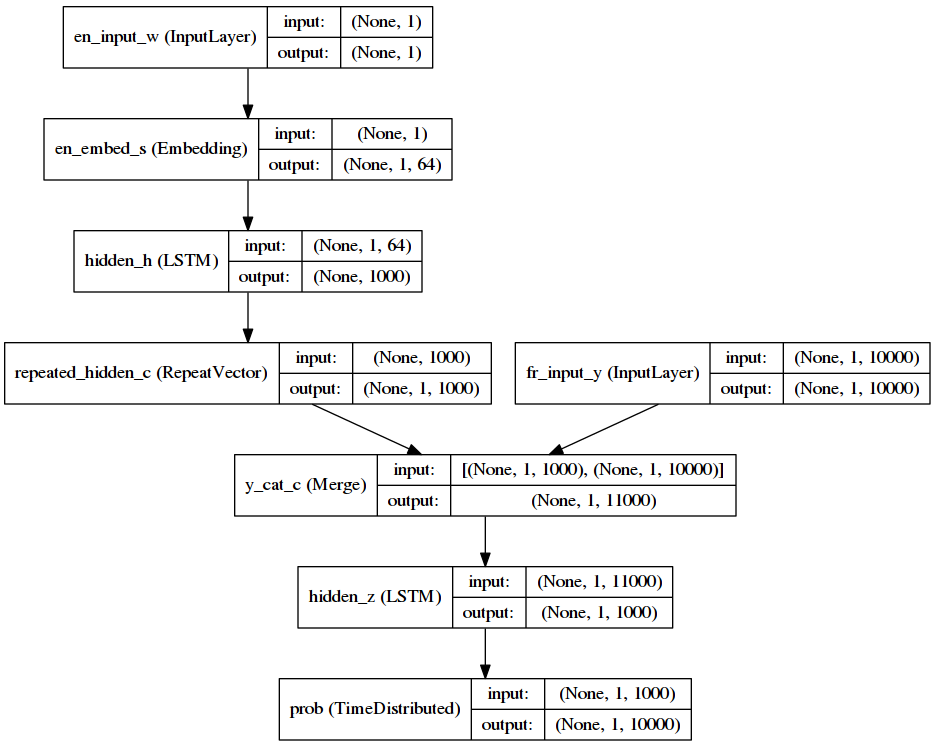
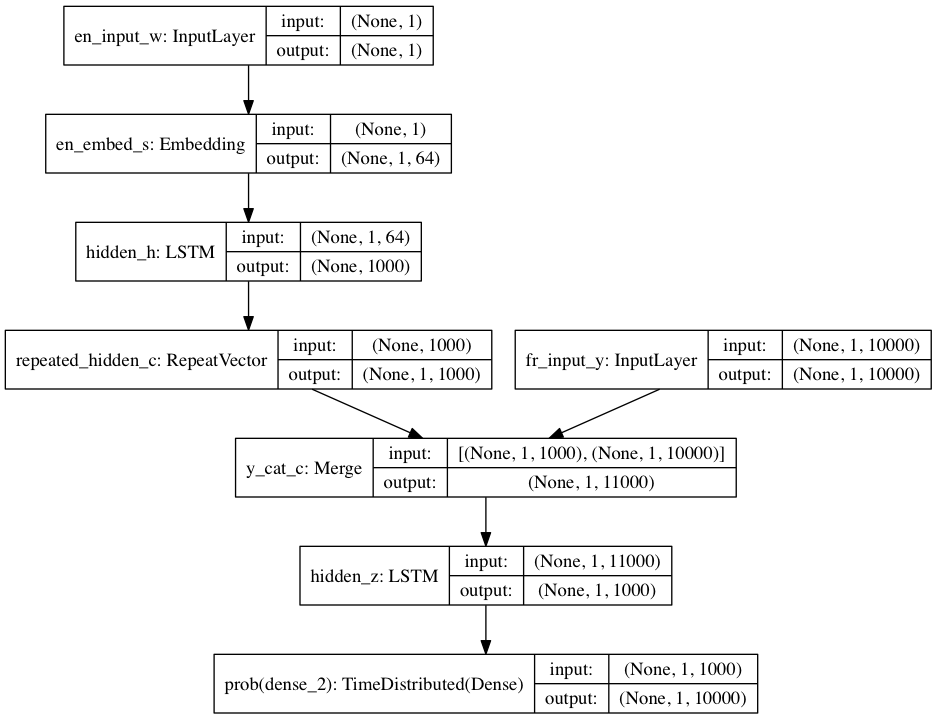
made tranlate a bit more general. turned off plot printing unless name give. better for my server

diff --git a/seq2seq_keras/translate.py b/seq2seq_keras/translate.py
@@ -51,7 +51,6 @@ from keras.layers.embeddings import Embedding
 from keras.layers.recurrent import LSTM
 from tensorflow import one_hot
 from keras.preprocessing.sequence import pad_sequences
-from keras.utils.visualize_util import plot
 from keras.models import Model
 from keras import backend as K
 
@@ -60,14 +59,14 @@ tf.app.flags.DEFINE_float("learning_rate_decay_factor", 0.99,
                                                     "Learning rate decays by this much.")
 tf.app.flags.DEFINE_float("max_gradient_norm", 5.0,
                                                     "Clip gradients to this norm.")
-tf.app.flags.DEFINE_integer("batch_size", 64,
+tf.app.flags.DEFINE_integer("batch_size", 32,
                                                         "Batch size to use during training.")
 tf.app.flags.DEFINE_integer("size", 1024, "Size of each model layer.")
 tf.app.flags.DEFINE_integer("num_layers", 3, "Number of layers in the model.")
 tf.app.flags.DEFINE_integer("en_vocab_size", 10000, "English vocabulary size.")
 tf.app.flags.DEFINE_integer("fr_vocab_size", 10000, "French vocabulary size.")
-tf.app.flags.DEFINE_string("data_dir", "/tmp", "Data directory")
-tf.app.flags.DEFINE_string("train_dir", "/tmp", "Training directory.")
+tf.app.flags.DEFINE_string("data_dir", "wmt", "Data directory")
+tf.app.flags.DEFINE_string("train_dir", "wmt", "Training directory.")
 tf.app.flags.DEFINE_integer("max_train_data_size", 0,
                                                         "Limit on the size of training data (0: no limit).")
 tf.app.flags.DEFINE_integer("steps_per_checkpoint", 200,
@@ -80,6 +79,7 @@ tf.app.flags.DEFINE_boolean("use_fp16", False,
                                                         "Train using fp16 instead of fp32.")
 tf.app.flags.DEFINE_boolean("quick_and_dirty", False,
                                                         "Quick & Dirty settings for fast testing")
+tf.app.flags.DEFINE_string("plot_name", None, "base name for plots")
 
 FLAGS = tf.app.flags.FLAGS
 
@@ -119,8 +119,9 @@ def create_model(vocab_size, en_length, fr_length, hidden_dim):
     z = LSTM(hidden_dim, return_sequences=True, name='hidden_z')(decode_input)
     p = TimeDistributed(Dense(vocab_size, activation='softmax'), name='prob')(z)
     model = Model(input=[en, fr], output=p)
-    print("printing model to an image")
-    plot(model, to_file='model.png', show_shapes=True)
+    if FLAGS.plot_name is not None: 
+        print("printing model to an image")
+        plot(model, to_file=FLAGS.plot_name+'.png', show_shapes=True)
     return model
 
 def create_model_test(vocab_size, hidden_dim):
@@ -134,8 +135,9 @@ def create_model_test(vocab_size, hidden_dim):
     z = LSTM(hidden_dim, return_sequences=True, name='hidden_z')(decode_input)
     p = TimeDistributed(Dense(vocab_size, activation='softmax'), name='prob')(z)
     model = Model(input=[en, prev], output=p)
-    print("printing model to an image")
-    plot(model, to_file='model_test.png', show_shapes=True)
+    if FLAGS.plot_name is not None: 
+        # print("printing model to an image")
+        plot(model, to_file=FLAGS.plot_name+'_test.png', show_shapes=True)
     return model
 
 def read_data(source_path, target_path, max_size=None):
@@ -200,8 +202,8 @@ def train():
     print ("Finished reading data!")
 
     print("reading vocabulary")
-    vocabulary_path_en = "./wmt/vocab10000.en"
-    vocabulary_path_fr = "./wmt/vocab10000.fr"
+    vocabulary_path_en = "./"+FLAGS.data_dir+"/vocab"+str(FLAGS.en_vocab_size)+".en"
+    vocabulary_path_fr = "./"+FLAGS.data_dir+"/vocab"+str(FLAGS.fr_vocab_size)+".fr"
     vocab_en, _ = data_utils.initialize_vocabulary(vocabulary_path_en)
     vocab_fr, _ = data_utils.initialize_vocabulary(vocabulary_path_fr)
     vocab_en = { vocab_en[key]:key for key in vocab_en}
@@ -239,9 +241,9 @@ def train():
                                 loss='categorical_crossentropy')
     model_test.compile(optimizer='rmsprop',
                                 loss='categorical_crossentropy')
-    print(model.summary())
+    # print(model.summary())
 
-    # model.fit([source, target], target, nb_epoch=10, batch_size=32)
+    model.fit([source, target], target, nb_epoch=10, batch_size=FLAGS.batch_size)
 
 
 
@@ -262,6 +264,9 @@ def main(_):
         train()
 
 if __name__ == "__main__":
+    if FLAGS.plot_name is not None: 
+        from keras.utils.visualize_util import plot
+
     if FLAGS.self_test:
         self_test()
     elif FLAGS.decode:
